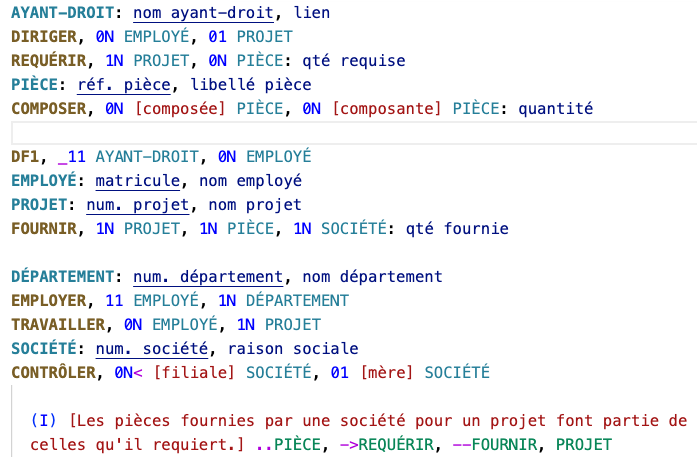
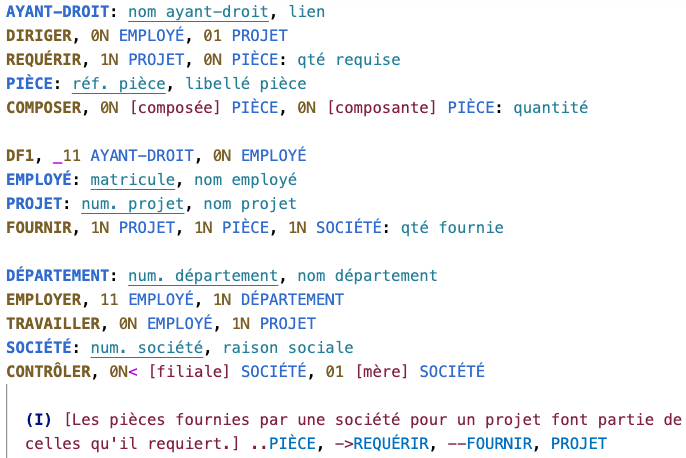
improve color consistency in VS-code plugin

diff --git a/laowantong.vscode-mocodo/README.md b/laowantong.vscode-mocodo/README.md
@@ -16,7 +16,11 @@ MIT.
 
 ## Release Notes
 
-### 0.0.2 -> 0.0.4
+### 1.0.0
+
+Improve color consistency between [Mocodo online](https://mocodo.net) and VS-Code's "Light+" or "Light Modern" themes.
+
+### 0.0.2 -> 0.0.5
 
 Fix packaging problems.
 
@@ -28,3 +32,4 @@ Initial release.
 
 * [Mocodo online](https://mocodo.net)
 * [Github](https://github.com/laowantong/mocodo/)
+* [Documentation](https://rawgit.com/laowantong/mocodo/master/doc/fr_refman.html)
